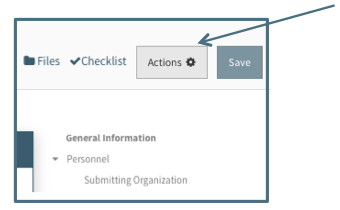
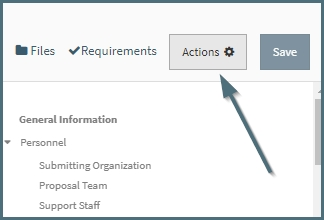
Updated User Guide - 8/3

Changed region(s): [[0.0, 0.0, 1.0, 1.0]]

diff --git a/docs/Tools/Actions.md b/docs/Tools/Actions.md
@@ -12,7 +12,7 @@ When the User clicks on the Action button, a dropdown is displayed revealing sev
 The Action Menu is grouped into two main categories of actions: Advance/Duplicate and Management type actions.
 
 # Advance
-Advancing means taking one type of submission to the Sponsor and moving it to the next step of the process.  For example, a white paper could become a pre-proposal which could in turn become a full proposal.
+Advancing means taking one type of submission to the Sponsor and moving it to the next step of the process or revising a prior piece of work to the same work type.  For example, a white paper could become a pre-proposal which could in turn become a full proposal.
 
 The concept of Advancing a proposal is centered around keeping related work connected in Summit and was designed to reduce re-entry of data. When advancing work from one type of proposal to another, Users should use this action to create a related proposal instead of the "Get Started" button to create an entirely new unrelated proposal.
 
@@ -40,11 +40,11 @@ To Advance work, the User can either start from within the previous work or use 
 
     Note: Advance is available for Open, Submitted and Closed proposals, but will usually only be used after a proposal has been submitted to the sponsor and further interaction with the sponsor is required.
 
-If the proposal being advanced has an identified Activity Type, the User will be asked to identify the Activity Type of the new work.  If the proposal being advanced does not have the Activity Type field completed, the User will be asked to identify the Activity Type of the original and new work.
+If the proposal being advanced has an identified Type of Work, the User will be asked only to identify the Type of Work of the new work (1st field below).  If the proposal being advanced does not have the Type of Work field completed, the User will be asked to identify the Type of Work of the original and new work (2nd field below).
 
 ![Advance Action to Initiator Dialogue Box](../images/tools/ToolAct_AdvanceDialogue.jpg)
 
-After identifying the Activity Type(s), the User will then be taken through the normal "Get Started" wizard to create the new proposal.  The initiator will include data from the proposal being advanced, except Sponsor Deadline and Target Date. All fields are editable so may be updated as necessary.
+After identifying the Type of Work(s), the User will then be taken through the normal "Get Started" wizard to create the new proposal.  The initiator will include data from the proposal being advanced, except Sponsor Deadline and Target Date. All fields are editable so may be updated as necessary.
 
 Creating Advanced work does the following:
 

diff --git a/docs/releaseNotes.md b/docs/releaseNotes.md
@@ -1,8 +1,8 @@
 ## Release 2.0.0 - August 2017
-#### **1. Get Started/Advance redeisgn**
+#### **1. Get Started / Advance redeisgn**
 ![Proposal Initiator Start Screen](images/navigation/NavIni_Start.jpg)
 
-Get Started will have all 3 options, Advance will only include the last two.
+<span style="color:blue">**Get Started**</span> will have all 3 options, while selecting **Advance** from within a proposal only the lst two options will appear.
 
 - **Start New Work**
     - I want to create a new Proposal, Pre-Proposal, White Paper, or Letter of Intent that is not advancing current work
@@ -32,7 +32,7 @@ Below shows the display in Summit when a user clicks "History".  Sorted by creat
 #### **4. Minor Updates**  
 - Compliance questions updated (OESRC and IRB)
 - Increase proposal summary pane width (Updated view shown below)
-![New Summary Width](images/newSummaryWidth.jpg)
+![New Summary Width](images/releaseNotes/newSummaryWidth.jpg)
 <br><br>
 
 #### **5. Bug Fixes**
@@ -40,10 +40,6 @@ Below shows the display in Summit when a user clicks "History".  Sorted by creat
 ![Help Text](images/releaseNotes/helpText.jpg)
 
 - Activity Log erorrs  
-
-#### **Known Issues**
-- Proposal creation fails when a PI does not have a home org in Banner or default home org in Summit.  Workaround is to have the PI add a default home org in managed preferences.
-
 
 ---------
 ## Release 1.4.0 - May 2017

diff --git a/docs/Navigation/proposal.md b/docs/Navigation/proposal.md
@@ -38,6 +38,18 @@ For the **Proposal Team** All Open contains:
 
 -	NOTE:  Co-PIs do not have a folder, only PIs.
 
+## Awaiting Banner
+The "Awaiting Banner" navigation item displays all proposals (including supplements and continuations) that have recently been submitted and finalized by Pre Award from the All Open navigation item.  
+
+Once a proposal has been submitted to the sponsor and Pre Award has finished all details with the proposal, the Pre Award associate will Finalize Submission from the Actions menu.  Once clicked the proposal will transition to the Awaiting Banner folder where OSP Processors will enter all necessary information into Banner (Virginia Tech data management system).  
+
+Normally a proposal is not in this folder for longer than a day.  
+
+## Pending Decision
+The "Pending Decision" navigation item displays all proposals (including supplements and continuations) that have been processed into Banner and is now pending the sponsor's decision to the proposal submitted.
+
+Normally proposal submitted within the last year that have not been decided on by the sponsor as of yet, are within this folder.
+
 ## My Closed
 The “My Closed” navigation item displays all closed on which the User is listed as PI or Support Staff Lead.  Closed proposals display in order of closure date, with the most recent appearing first.
 

diff --git a/docs/Tools/History.md b/docs/Tools/History.md
@@ -4,12 +4,14 @@
 
 The History log is located at the beginning of the toolbar at the top right while in a type of work.
 
+![Tools History Toolbar](../images/tools/ToolHistory_Toolbar.jpg)
+
 Below shows the display in Summit when a user clicks "History".  
+
+![Tools History Sequence](../images/tools/ToolHistory_Sequence.jpg)
 
 Sorted by creation date, the earliest work will be at the bottom and most recent created at the top.  
 
-In the example below the user started with a Pre-proposal, then advanced to a Proposal, then advanced the Proposal to another Proposal making it a revision.  Lastly, the user advanced the Proposal (Revision) to a Continuation.
-
-![Tools History Sequence](../images/tools/ToolHistory_Sequence.jpg)
+In the example above the user started with a Pre-proposal, then advanced to a Proposal, then advanced the Proposal to another Proposal making it a revision.  Lastly, the user advanced the Proposal (Revision) to a Continuation.
 
 All types of work in that cycle can be accessed from another work while having the History display up, simply click the hyperlink of the Proposal ID you wish to navigate to and the that work with open.

diff --git a/docs/Tools/Files.md b/docs/Tools/Files.md
@@ -58,7 +58,11 @@ Available to all Users for files marked “Signature Needed.”  This feature al
 ![Remove Signature Needed on File](../images/tools/ToolFile_SigNotNeeded.jpg)
 
 # File Log
-A log of every file attached in the proposal is located to the right of the Comments Log.  The Files log is an interactive list of all the current versions of the files.  All the actions associated with a file except comment are accessible in the Files log.  Clicking on the file location will take the User to the file in the proposal editor.  Clicking on the file name will open the file in a separate window.
+A log of every file attached in the proposal is located to the right of the Comments Log.  
+
+![File Log Toolbar](../images/tools/ToolFiles_Toolbar.jpg)
+
+The Files log is an interactive list of all the current versions of the files.  All the actions associated with a file except comment are accessible in the Files log.  Clicking on the file location will take the User to the file in the proposal editor.  Clicking on the file name will open the file in a separate window.
 
 ![File Log View](../images/tools/ToolFile_FileLog.jpg)
 

diff --git a/docs/index.md b/docs/index.md
@@ -27,6 +27,9 @@ Several Key videos:
 
 - [How to Approve a Proposal](https://www.youtube.com/watch?v=sfmdQqFPBPc)
 
+# Known Issues
+- Proposal creation fails when a PI does not have a home org in Banner or default home org in Summit.  
+    - Workaround: The PI should work with their department to update Banner to add their home org or add a default home org in managed preferences.
 
 # FAQs
 Coming Soon!
